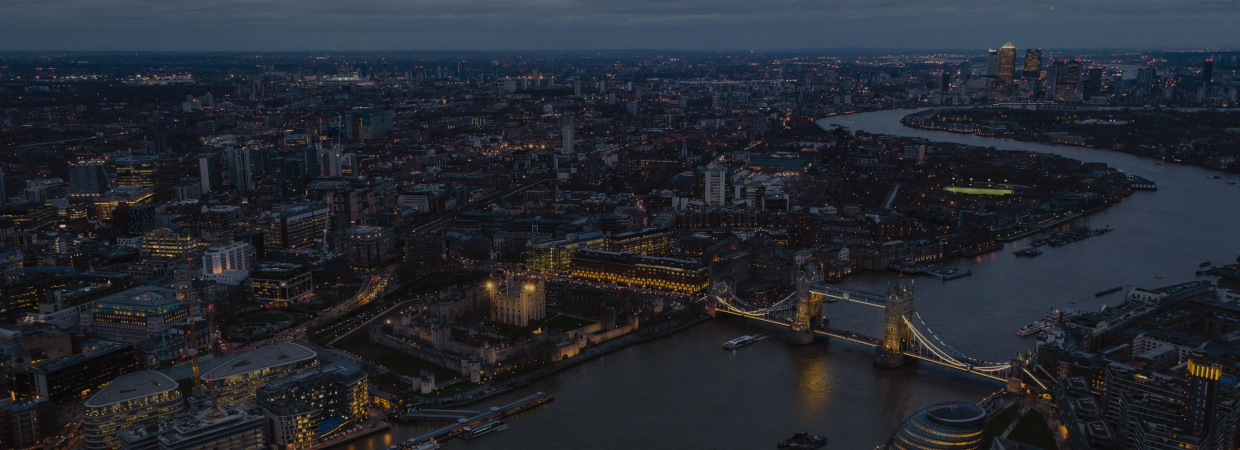
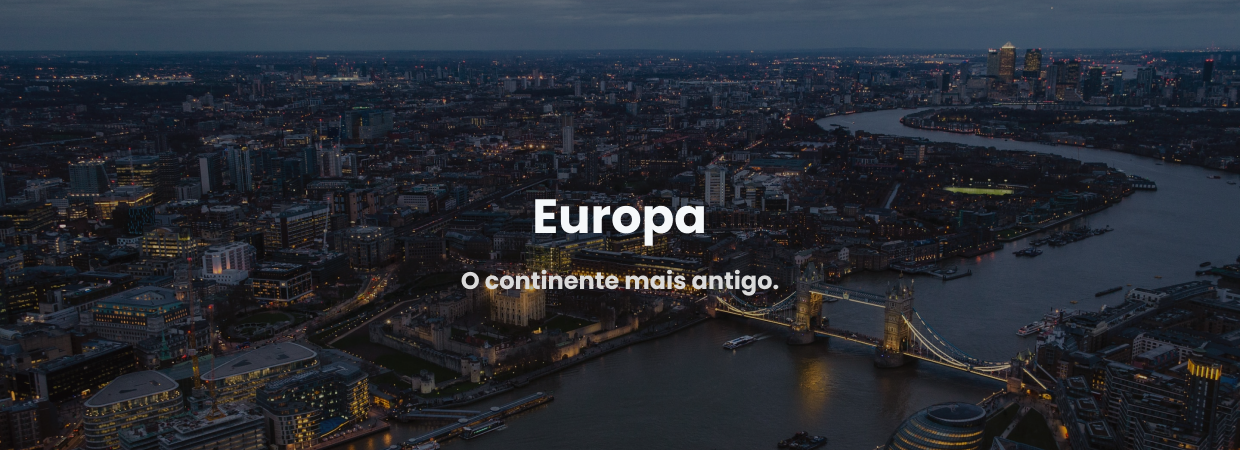
feat: Responsividade na pagina home

Changed region(s): [[0.3677, 0.5911, 0.6435, 0.6533], [0.429, 0.4356, 0.5823, 0.56]]

diff --git a/src/components/TravelTypes/index.tsx b/src/components/TravelTypes/index.tsx
@@ -4,9 +4,97 @@ import beach from "../../../public/images_project/types/Beach.png";
 import modern from "../../../public/images_project/types/Modern.png";
 import classic from "../../../public/images_project/types/Classic.png";
 import more from "../../../public/images_project/types/More.png";
-import { Box } from "@chakra-ui/react";
+import {
+  Box,
+  Flex,
+  List,
+  ListIcon,
+  ListItem,
+  UnorderedList,
+  useMediaQuery,
+  Wrap,
+  WrapItem,
+  Icon,
+} from "@chakra-ui/react";
+import { useState, useEffect } from "react";
+
+import { FaCircle } from "react-icons/fa";
 
 export function TravelTypes() {
+  const [isMobileVersion, setIsMobileVersion] = useState<boolean | undefined>(
+    false
+  );
+
+  const [isMobile] = useMediaQuery("(max-width: 768px)");
+
+  useEffect(() => {
+    setIsMobileVersion(isMobile);
+  }, [isMobile]);
+
+  if (isMobileVersion) {
+    return (
+      <Box>
+        <List display="flex" flexWrap="wrap" justifyContent="center">
+          <ListItem
+            w={170}
+            display="flex"
+            alignItems="center"
+            justifyContent="space-evenly"
+            padding={3}
+            fontSize={18}
+          >
+            <FaCircle size={8} color="#FFBA08" />
+            vida noturna
+          </ListItem>
+          <ListItem
+            w={120}
+            display="flex"
+            alignItems="center"
+            justifyContent="space-evenly"
+            padding={3}
+            fontSize={18}
+          >
+            <FaCircle size={8} color="#FFBA08" />
+            praia
+          </ListItem>
+          <ListItem
+            w={140}
+            display="flex"
+            alignItems="center"
+            justifyContent="space-evenly"
+            padding={3}
+            fontSize={18}
+          >
+            <FaCircle size={8} color="#FFBA08" />
+            moderno
+          </ListItem>
+          {/* You can also use custom icons from react-icons */}
+          <ListItem
+            w={140}
+            display="flex"
+            alignItems="center"
+            justifyContent="space-evenly"
+            padding={3}
+            fontSize={18}
+          >
+            <FaCircle size={8} color="#FFBA08" />
+            clássico
+          </ListItem>
+          <ListItem
+            w={140}
+            display="flex"
+            alignItems="center"
+            justifyContent="space-evenly"
+            padding={3}
+            fontSize={18}
+          >
+            <FaCircle size={8} color="#FFBA08" />e mais...
+          </ListItem>
+        </List>
+      </Box>
+    );
+  }
+
   return (
     <Box
       display="flex"

diff --git a/src/components/Slide/index.tsx b/src/components/Slide/index.tsx
@@ -1,18 +1,53 @@
-import React, { useRef, useState } from "react";
+import React, { useEffect, useState } from "react";
 
 import { Swiper, SwiperSlide } from "swiper/react";
 
 import imageEurope from "../../../public/images_project/slide_continents/europe.png";
+import imageEuropeMobile from "../../../public/images_project/slide_continents/europe_mobile.png";
 
 import { Navigation, Pagination, Mousewheel, Keyboard } from "swiper";
-import { Box, Flex, Heading, Text, Image } from "@chakra-ui/react";
+import { Box, Flex, Heading, Text, Image, useMediaQuery } from "@chakra-ui/react";
+
+import Link from "next/link";
 
 import "swiper/css";
 import "swiper/css/navigation";
 import "swiper/css/pagination";
-import Link from "next/link";
 
 export function Slide() {
+  const [isMobileVersion, setIsMobileVersion] = useState<boolean | undefined>(
+    false
+  );
+
+  const [isMobile] = useMediaQuery("(max-width: 768px)");
+
+  useEffect(() => {
+    setIsMobileVersion(isMobile);
+  }, [isMobile]);
+
+  if (isMobileVersion) {
+    return (
+      <Box pt={3} pl={3} pr={3} pb={4}>
+      <Swiper
+        cssMode={true}
+        navigation={true}
+        pagination={true}
+        mousewheel={true}
+        keyboard={true}
+        modules={[Navigation, Pagination, Mousewheel, Keyboard]}
+        className="mySwiper"
+      >
+        <SwiperSlide>
+          <Link href="/europe">
+            <Image src={imageEuropeMobile.src} alt="Europe" />
+          </Link>
+        </SwiperSlide>
+        <SwiperSlide>Slide 2</SwiperSlide>
+      </Swiper>
+    </Box>
+    )
+  }
+  
   return (
     <Box pt={7} pl={10} pr={10} pb={10}>
       <Swiper
@@ -27,20 +62,6 @@ export function Slide() {
         <SwiperSlide>
           <Link href="/europe">
             <Image src={imageEurope.src} alt="Europe" />
-            <Flex
-              flexDirection="column"
-              position="absolute"
-              top="40%"
-              right="41%"
-              textAlign="center"
-            >
-              <Heading color="light.900" fontSize="40">
-                Europa
-              </Heading>
-              <Text color="light.900" fontSize="20">
-                O continente mais antigo.
-              </Text>
-            </Flex>
           </Link>
         </SwiperSlide>
         <SwiperSlide>Slide 2</SwiperSlide>

diff --git a/src/pages/index.tsx b/src/pages/index.tsx
@@ -1,24 +1,59 @@
+import { useState, useEffect } from "react";
+import {
+  Box,
+  Center,
+  Divider,
+  Flex,
+  Text,
+  Image,
+  useMediaQuery,
+} from "@chakra-ui/react";
 import { Header } from "@/components/Header";
 import { Slide } from "@/components/Slide";
 import { TravelTypes } from "@/components/TravelTypes";
-import { Box, Center, Divider, Flex, Text, Image } from "@chakra-ui/react";
 import banner from "../../public/images_project/Banner.png";
+import banner_mobile from "../../public/images_project/Banner_mobile.png";
 
 export default function Home() {
+  const [isMobileVersion, setIsMobileVersion] = useState<boolean | undefined>(
+    false
+  );
+
+  const [isMobile] = useMediaQuery("(max-width: 768px)");
+
+  useEffect(() => {
+    setIsMobileVersion(isMobile);
+  }, [isMobile]);
+
   return (
     <Box maxWidth={1480}>
       <Header />
       <Box>
-        <Image src={banner.src} alt="Banner" width="100%" />
+        {isMobileVersion ? (
+          <Image src={banner_mobile.src} alt="Banner" width="100%" />
+        ) : (
+          <Image src={banner.src} alt="Banner" width="100%" />
+        )}
       </Box>
       <TravelTypes />
-      <Center height="50px">
-        <Divider orientation="horizontal" h={1} w={20} bg="dark.500" />
+      <Center height="30px">
+        {isMobileVersion ? (
+          <Divider orientation="horizontal" h="2px" w={20} bg="dark.500" />
+        ) : (
+          <Divider orientation="horizontal" h={1} w={20} bg="dark.500" />
+        )}
       </Center>
-      <Flex flexDirection="column" align="center" p={15}>
-        <Text fontSize={30}>Vamos nessa?</Text>
-        <Text fontSize={30}>Então escolha o seu continente</Text>
-      </Flex>
+      {isMobileVersion ? (
+        <Flex flexDirection="column" align="center" p={15}>
+          <Text fontSize={20}>Vamos nessa?</Text>
+          <Text fontSize={20}>Então escolha o seu continente</Text>
+        </Flex>
+      ) : (
+        <Flex flexDirection="column" align="center" p={15}>
+          <Text fontSize={30}>Vamos nessa?</Text>
+          <Text fontSize={30}>Então escolha o seu continente</Text>
+        </Flex>
+      )}
       <Slide />
     </Box>
   );

diff --git a/src/components/Slide/styles.css b/src/components/Slide/styles.css
@@ -42,3 +42,13 @@
   height: 100%;
   object-fit: cover;
 }
+
+@media (max-width: 768px) {
+  .swiper .swiper-button-prev::after {
+    font-size: 25px;
+  }
+  
+  .swiper .swiper-button-next::after {
+    font-size: 25px;
+  }
+}

diff --git a/src/pages/europe/index.tsx b/src/pages/europe/index.tsx
@@ -3,7 +3,6 @@ import {
   Flex,
   Text,
   Image,
-  useBreakpointValue,
   useMediaQuery,
 } from "@chakra-ui/react";
 import { Header } from "@/components/Header";
